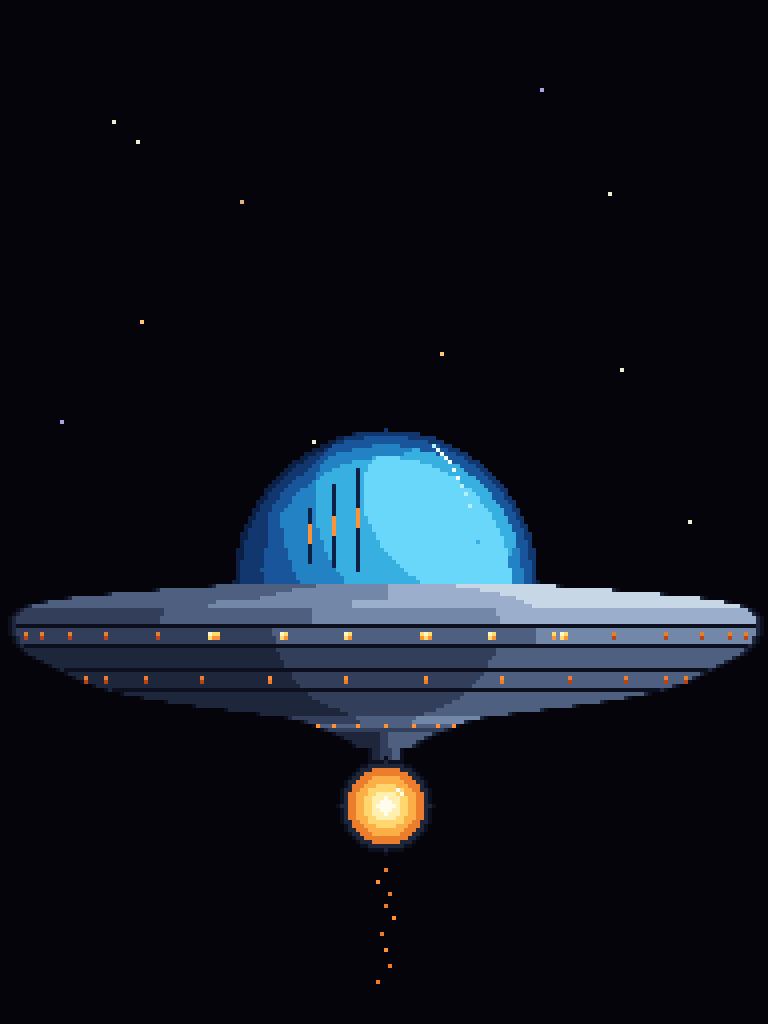
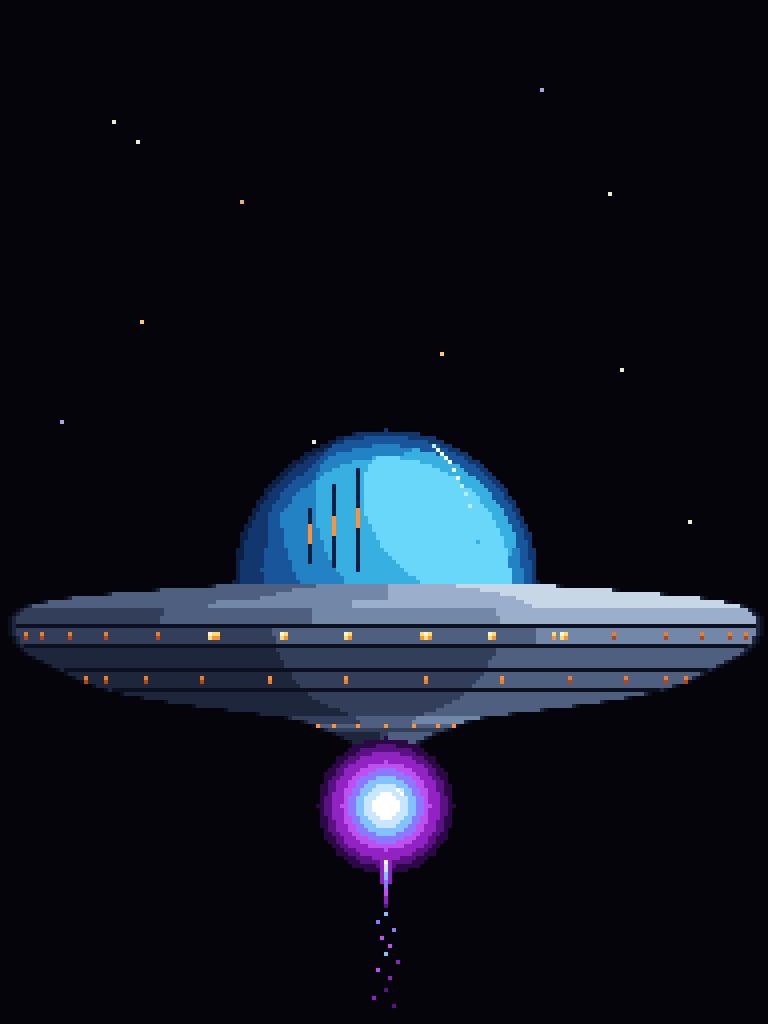
Recolor UFO engine as a plasma reactor with energy beam
Replaces the warm orange engine pod and falling sparks with a futuristic
plasma palette (white-cyan core through magenta-purple edges). Adds a soft
purple halo extending outward from the pod and a tapering plasma beam below
that fades into drifting plasma particles. The bottom no longer reads as
fire/exhaust — it reads as an energy reactor, and pairs visually with the
cool cyan dome on top.

Changed region(s): [[0.4062, 0.7188, 0.5938, 0.9062]]

diff --git a/build_ufo.py b/build_ufo.py
@@ -60,6 +60,16 @@ WIN_O = (255, 145, 55)
 WIN_Y = (255, 220, 110)
 WIN_W = (255, 245, 200)
 
+# Plasma — engine core / energy field (white-cyan core to deep magenta edges)
+PLASMA_SHINE  = (255, 255, 255)
+PLASMA_HOT    = (200, 230, 255)
+PLASMA_BRIGHT = (130, 195, 255)
+PLASMA_LIGHT  = (140, 120, 255)
+PLASMA_MID    = (190, 80, 240)
+PLASMA_DARK   = (145, 35, 195)
+PLASMA_DEEP   = (90, 18, 130)
+PLASMA_VOID   = (45, 8, 70)
+
 STAR1 = (240, 235, 210)
 STAR2 = (255, 200, 120)
 STAR3 = (180, 160, 220)
@@ -305,43 +315,77 @@ for y in range(187, 193):
         else:                col = HULL_DD
         put(x, y, col)
 
-# Engine pod (small round sphere with glowing core)
+# Engine pod — plasma reactor core, white-cyan center to magenta-purple edges
 POD_CX = HCX
 POD_CY = 201
 POD_R = 12
 
+# Plasma halo: a soft ring of glow extending outward from the pod
+HALO_R = POD_R + 5
+for y in range(POD_CY - HALO_R, POD_CY + HALO_R + 1):
+    for x in range(POD_CX - HALO_R, POD_CX + HALO_R + 1):
+        dx = x - POD_CX
+        dy = y - POD_CY
+        d = math.sqrt(dx*dx + dy*dy)
+        if d <= POD_R or d > HALO_R: continue
+        edge = (d - POD_R) / (HALO_R - POD_R)
+        if   edge < 0.30: col = PLASMA_DARK
+        elif edge < 0.65: col = PLASMA_DEEP
+        else:             col = PLASMA_VOID
+        put(x, y, col)
+
+# Pod sphere itself
 for y in range(POD_CY - POD_R, POD_CY + POD_R + 1):
     for x in range(POD_CX - POD_R, POD_CX + POD_R + 1):
         u = (x - POD_CX) / POD_R
         v = (y - POD_CY) / POD_R
         d = math.sqrt(u*u + v*v)
         if d > 1.0: continue
-        if   d > 0.92: col = HULL_O
-        elif d > 0.80: col = HULL_DD
-        elif d > 0.65: col = ORANGE
-        elif d > 0.48: col = LIGHT
-        elif d > 0.32: col = BRIGHT
-        elif d > 0.18: col = HOT
-        else:          col = SHINE
+        if   d > 0.92: col = PLASMA_DARK
+        elif d > 0.78: col = PLASMA_MID
+        elif d > 0.62: col = PLASMA_LIGHT
+        elif d > 0.45: col = PLASMA_BRIGHT
+        elif d > 0.28: col = PLASMA_HOT
+        elif d > 0.12: col = PLASMA_SHINE
+        else:          col = PLASMA_SHINE
         put(x, y, col)
 
-# Specular dot on engine pod
-put(POD_CX + 3, POD_CY - 4, SHINE)
-put(POD_CX + 4, POD_CY - 3, SHINE)
+# Specular cool-white highlight on upper-right of pod
+put(POD_CX + 3, POD_CY - 4, PLASMA_SHINE)
+put(POD_CX + 4, POD_CY - 3, PLASMA_SHINE)
+put(POD_CX + 4, POD_CY - 4, PLASMA_HOT)
 
-# ── FALLING SPARKS ──────────────────────────────────
-sparks = [
-    (HCX, 217, ORANGE),
-    (HCX - 2, 220, WIN_O),
-    (HCX + 1, 223, ORANGE),
-    (HCX,     226, ORANGE),
-    (HCX + 2, 229, WIN_O),
-    (HCX - 1, 233, ORANGE),
-    (HCX,     237, WIN_O),
-    (HCX + 1, 241, ORANGE),
-    (HCX - 2, 245, ORANGE),
+# ── PLASMA STREAM — thin glowing beam + drifting particles ──
+# Central beam: tapers and fades downward
+beam = [
+    (215, PLASMA_SHINE), (216, PLASMA_HOT),  (217, PLASMA_HOT),
+    (218, PLASMA_BRIGHT), (219, PLASMA_BRIGHT), (220, PLASMA_LIGHT),
+    (221, PLASMA_LIGHT), (222, PLASMA_MID),  (223, PLASMA_MID),
+    (224, PLASMA_DARK),  (225, PLASMA_DARK), (226, PLASMA_DEEP),
 ]
-for x, y, c in sparks:
+for y, c in beam:
+    put(HCX, y, c)
+# Edge softening on the brighter upper section
+for y, c in beam[:6]:
+    put(HCX - 1, y, PLASMA_DARK)
+    put(HCX + 1, y, PLASMA_DARK)
+
+# Drifting plasma particles below the beam (scattered, fading)
+particles = [
+    (HCX,     228, PLASMA_BRIGHT),
+    (HCX - 2, 230, PLASMA_LIGHT),
+    (HCX + 2, 232, PLASMA_LIGHT),
+    (HCX - 1, 234, PLASMA_MID),
+    (HCX + 1, 236, PLASMA_MID),
+    (HCX,     238, PLASMA_BRIGHT),
+    (HCX + 3, 240, PLASMA_DARK),
+    (HCX - 2, 242, PLASMA_MID),
+    (HCX + 1, 244, PLASMA_DARK),
+    (HCX,     247, PLASMA_DEEP),
+    (HCX - 3, 249, PLASMA_DARK),
+    (HCX + 2, 251, PLASMA_DEEP),
+]
+for x, y, c in particles:
     put(x, y, c)
 
 os.makedirs('output', exist_ok=True)
